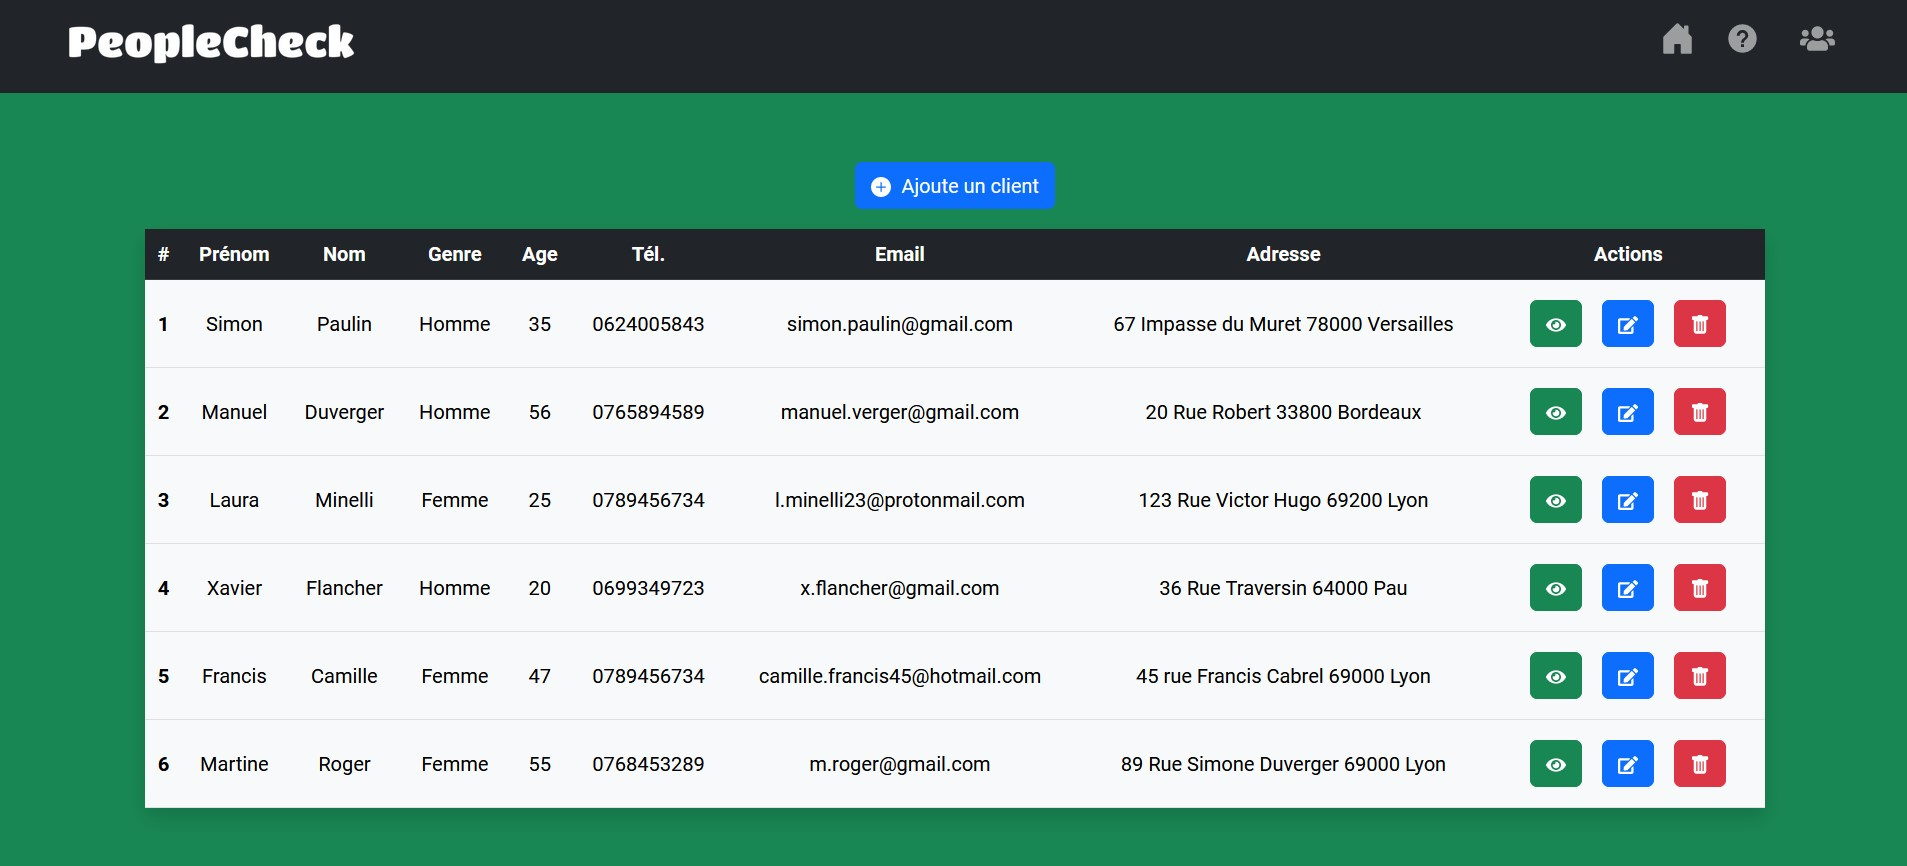
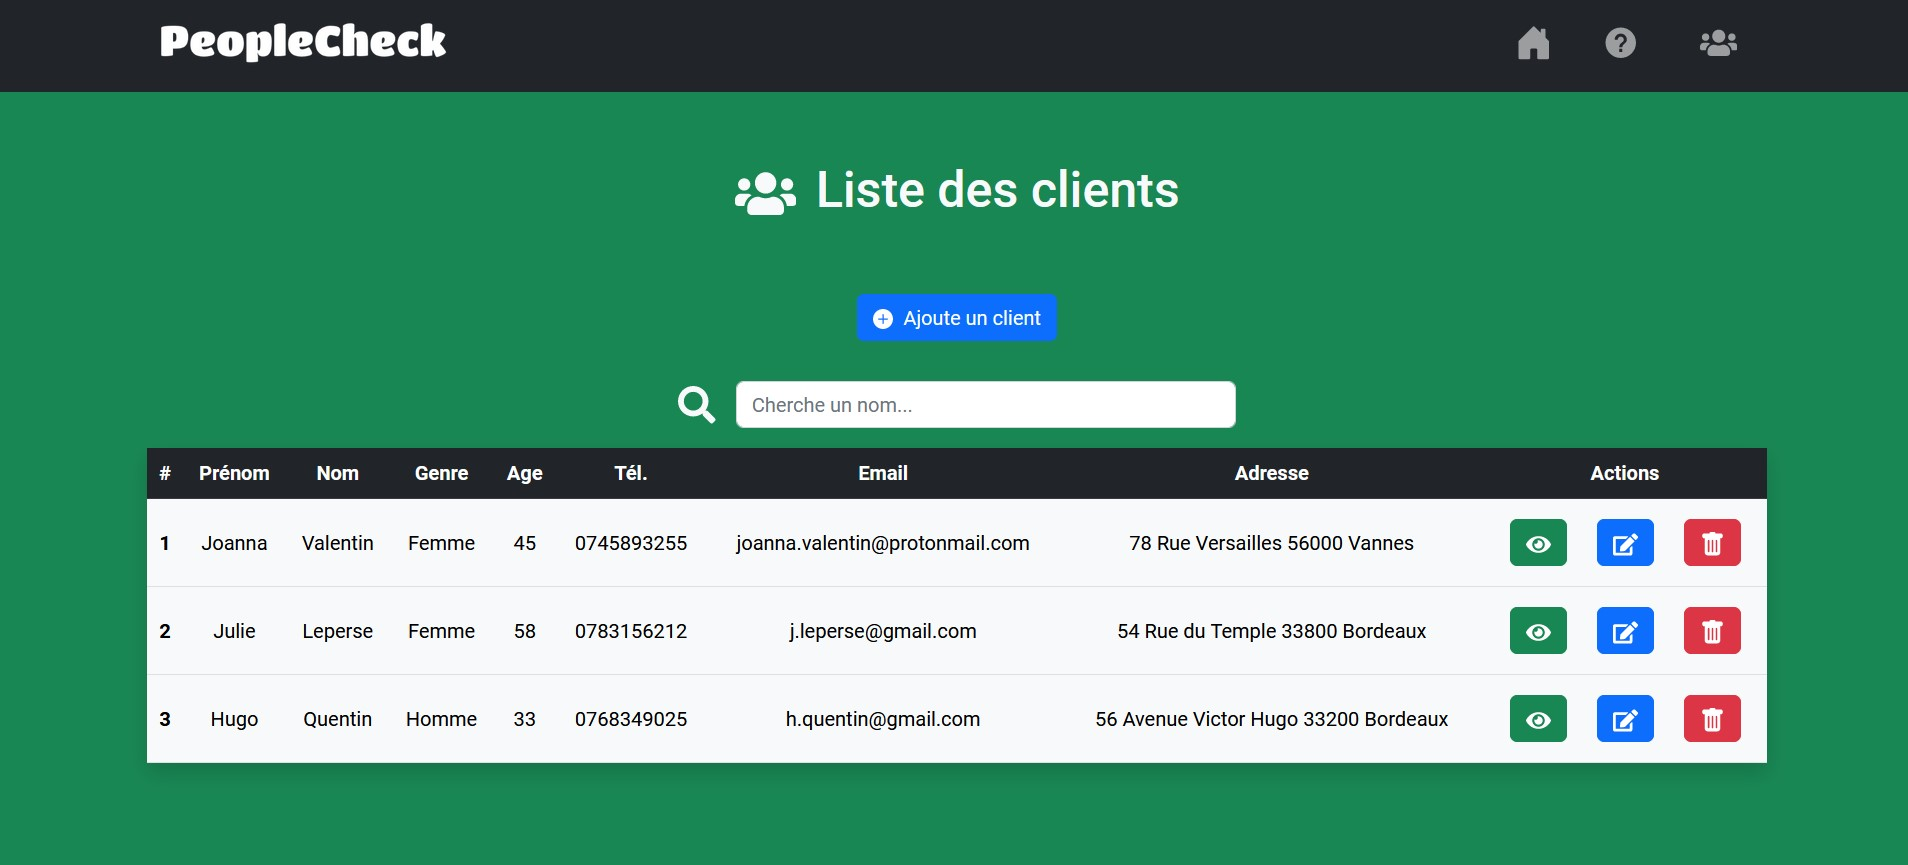
Ajout barre de recherche

diff --git a/src/components/ViewAllClients.js b/src/components/ViewAllClients.js
@@ -1,11 +1,13 @@
 import React, { useEffect, useState } from 'react';
-import { FaUsers, FaEye, FaEdit } from 'react-icons/fa';
+import { FaUsers, FaEye, FaEdit, FaSearch } from 'react-icons/fa';
 import { BsFillPlusCircleFill, BsTrashFill } from 'react-icons/bs';
 import Table from 'react-bootstrap/Table';
 import Button from 'react-bootstrap/Button';
 import Container from 'react-bootstrap/Container';
 import { Link, useParams  } from 'react-router-dom';
 import axios from 'axios';
+import Form from 'react-bootstrap/Form';
+import Stack from 'react-bootstrap/Stack';
 
 function ViewAllClients() {
     const [clients,setClients] = useState([]);
@@ -13,6 +15,8 @@ function ViewAllClients() {
     document.title = 'Liste des clients 👤';
     loadClients();
     }, []);
+
+    const[search, setSearch] = useState('');
 
     const { id } = useParams();
 
@@ -29,8 +33,14 @@ function ViewAllClients() {
     return (
     <main>
         <Container className="text-center">
-            <h1 className="mb-5"><FaUsers className="display-3 pe-3" />Liste des clients</h1>
+            <h1 className="mb-5"><FaUsers className="pe-3" size={65} />Liste des clients</h1>
             <Link className="btn btn-primary mb-3" to="/ajoutclient"><BsFillPlusCircleFill className="me-2" />Ajoute un client</Link>
+            <Form className="d-flex align-items-center justify-content-center align-middle my-3">
+                <Stack direction="horizontal" gap={3}>
+                <FaSearch size={30} />
+                <Form.Control onChange={(e) =>setSearch(e.target.value)}  type="search" className="search-bar" placeholder="Cherche un nom..."/>
+                </Stack>
+            </Form>
             <Table className="table table-hover table-responsive shadow table-light">
                 <thead className="table-dark">
                     <tr>
@@ -47,7 +57,10 @@ function ViewAllClients() {
                 </thead>
                 <tbody>
             {
-                clients.map((client, index)=>(
+                clients.filter((client) => {
+                    return search.toLowerCase()  === ''
+                    ? client : client.lname.toLowerCase().includes(search);
+                }).map((client, index)=>(
                     <tr>
                         <th scope="row" key={index}>{index+1}</th>
                         <td>{client.fname}</td>
@@ -58,9 +71,9 @@ function ViewAllClients() {
                         <td>{client.email}</td>
                         <td>{client.address}</td>
                         <td>
-                            <Link className="btn btn-success" to={`/consultationclient/${client.id}`} title="Voir"><FaEye /></Link>
-                            <Link className="btn btn-primary my-2 mx-4" to={`/modificationclient/${client.id}`} title="Modifier">< FaEdit/></Link>
-                            <Button variant="danger" onClick={() => deleteClient(client.id)} title="Supprimer"><BsTrashFill /></Button>
+                            <Link className="btn btn-success" to={`/consultationclient/${client.id}`} title="Voir"><FaEye size={20} /></Link>
+                            <Link className="btn btn-primary my-2 mx-4" to={`/modificationclient/${client.id}`} title="Modifier">< FaEdit size={20} /></Link>
+                            <Button variant="danger" onClick={() => deleteClient(client.id)} title="Supprimer"><BsTrashFill size={20} /></Button>
                         </td>
                     </tr>
                 ))

diff --git a/src/components/ViewClient.js b/src/components/ViewClient.js
@@ -35,7 +35,7 @@ function ViewClient() {
     return (
     <main>
         <Container>
-            <h1 className="text-center mb-5"><FaUserAlt className="display-4 pe-3" />Informations du client</h1>
+            <h1 className="text-center mb-5"><FaUserAlt className="pe-3" size={60} />Informations du client</h1>
             <Row>
                 <div className="col-md-6 offset-md-3 border rounded p-4 mt-2 shadow bg-dark">
                     <Card.Body>
@@ -43,31 +43,31 @@ function ViewClient() {
                             <Card.Title className="text-center m-4">{client.fname} {client.lname}</Card.Title>
                             <ul className="list-group list-group-flush rounded">
                                 <li className="list-group-item">
-                                    <b><FaUserAlt className="display-6 pe-3" />Prénom: </b>
+                                    <b><FaUserAlt className="pe-3" size={40} />Prénom: </b>
                                     {client.fname}
                                 </li>
                                 <li className="list-group-item">
-                                    <b><FaUserAlt className="display-6 pe-3" />Nom: </b>
+                                    <b><FaUserAlt className="pe-3" size={40} />Nom: </b>
                                     {client.lname}
                                 </li>
                                 <li className="list-group-item">
-                                    <b><AiOutlineFieldNumber className="display-6 pe-3" />Age: </b>
+                                    <b><AiOutlineFieldNumber className="pe-3" size={40} />Age: </b>
                                     {client.age}
                                 </li>
                                 <li className="list-group-item">
-                                    <b><FaUserAlt className="display-6 pe-3" />Genre: </b>
+                                    <b><FaUserAlt className="pe-3" size={40} />Genre: </b>
                                     {client.gender}
                                 </li>
                                 <li className="list-group-item">
-                                    <b><BsFillTelephoneFill className="display-6 pe-3" />Tél: </b>
+                                    <b><BsFillTelephoneFill className="pe-3" size={40} />Tél: </b>
                                     {client.phone}
                                 </li>
                                 <li className="list-group-item">
-                                    <b><MdEmail className="display-6 pe-3" />Email: </b>
+                                    <b><MdEmail className="pe-3" size={40} />Email: </b>
                                     {client.email}
                                 </li>
                                 <li className="list-group-item">
-                                    <b><FaAddressCard className="display-6 pe-3" />Adresse: </b>
+                                    <b><FaAddressCard className="pe-3" size={40} />Adresse: </b>
                                     {client.address}
                                 </li>
                             </ul>

diff --git a/src/layout/Header.js b/src/layout/Header.js
@@ -22,9 +22,9 @@ function Header() {
                 <Navbar.Toggle aria-controls="basic-navbar-nav" />
                 <Navbar.Collapse id="basic-navbar-nav">
                     <Nav className="navbar-nav ms-auto text-end mt-3 mt-md-0 mt-lg-0 mt-xl-0 align-middle">
-                        <Nav.Link><Link className="nav-link" to="/"><BsFillHouseDoorFill className="h2" /></Link></Nav.Link>
-                        <Nav.Link><Link className="nav-link px-md-2 px-lg-2 px-xl-3" to="#"><IoMdHelpCircle className="h2" onClick={handleShow} /></Link></Nav.Link>
-                        <Nav.Link><Link className="nav-link px-md-2 px-lg-2 px-xl-3" to="/clients"><FaUsers className="h2" /></Link></Nav.Link>
+                        <Nav.Link><Link className="nav-link" to="/"><BsFillHouseDoorFill size={30} /></Link></Nav.Link>
+                        <Nav.Link><Link className="nav-link px-md-2 px-lg-2 px-xl-3" to="#"><IoMdHelpCircle size={30} onClick={handleShow} /></Link></Nav.Link>
+                        <Nav.Link><Link className="nav-link px-md-2 px-lg-2 px-xl-3" to="/clients"><FaUsers size={30} /></Link></Nav.Link>
                     </Nav>
                 </Navbar.Collapse>
             </Container>

diff --git a/src/pages/Home.js b/src/pages/Home.js
@@ -20,7 +20,7 @@ function Home() {
         <Link className="btn btn-danger fw-bold text-uppercase border border-warning py-2 my-4 link-to-allclients" to="/clients"><span className="h4">Espace de gestion</span></Link>
         <p className="px-5 h5 pt-3">Accède à l'espace de gestion pour consulter l'ensemble des clients.</p>
         <p className="px-5 pb-3 h5">Tu pourras également ajouter, consulter, <span className="line-break">modifier ou supprimer un client de ton choix !</span></p>
-        <FaUsers className="display-3" />
+        <FaUsers size={70} />
     </main>
 </div>
   )

diff --git a/src/components/EditClient.js b/src/components/EditClient.js
@@ -47,7 +47,7 @@ function EditClient() {
     return (
     <main>
         <Container>
-            <h1 className="text-center mb-5"><FaUserAlt className="display-4 pe-3" />Modifie un client</h1>
+            <h1 className="text-center mb-5"><FaUserAlt className="pe-3" size={60} />Modifie un client</h1>
             <Row>
                 <div className="col-md-6 offset-md-3 border rounded p-4 mt-2 bg-dark shadow">
                     <Form onSubmit={handleSubmit} className="text-light p-3">

diff --git a/src/components/AddClient.js b/src/components/AddClient.js
@@ -40,7 +40,7 @@ function AddClient() {
   return (
     <main>
       <Container>
-        <h1 className="text-center mb-5"><FaUserAlt className="display-4 pe-3" />Ajoute un client</h1>
+        <h1 className="text-center mb-5"><FaUserAlt className="pe-3" size={60} />Ajoute un client</h1>
         <Row>
           <div className="col-md-6 offset-md-3 border rounded p-4 mt-2 bg-dark shadow px-5">
             <Form onSubmit={handleSubmit} className="text-light p-3">

diff --git a/src/App.scss b/src/App.scss
@@ -32,3 +32,8 @@ footer {
 table {
   vertical-align: middle!important;
 }
+
+.search-bar{
+  width: 25rem;
+}
+
